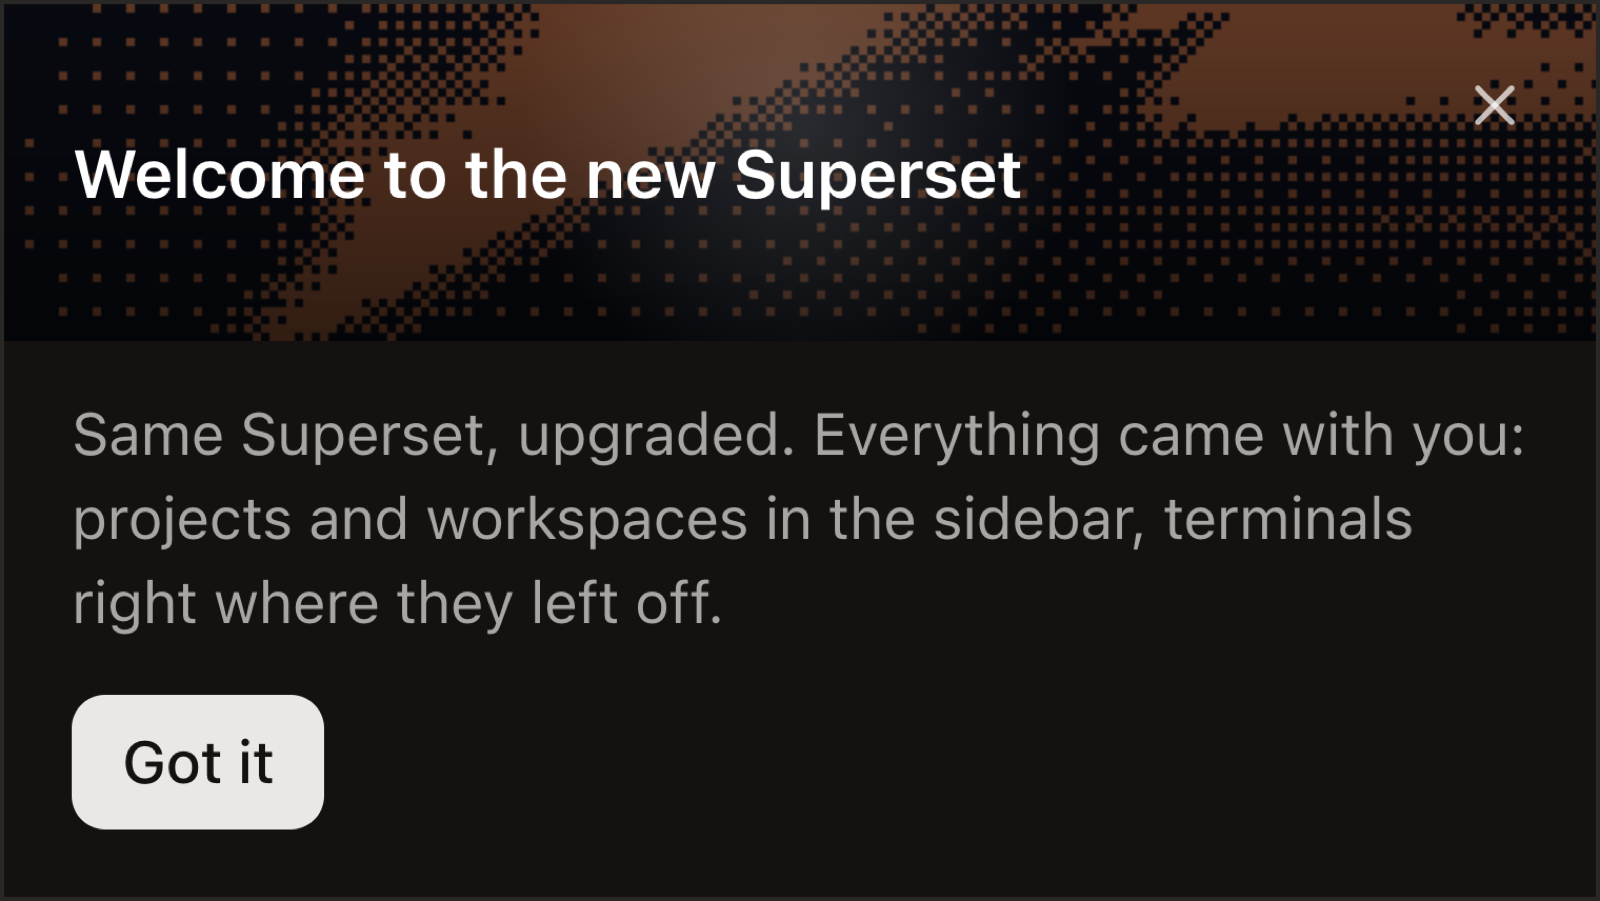
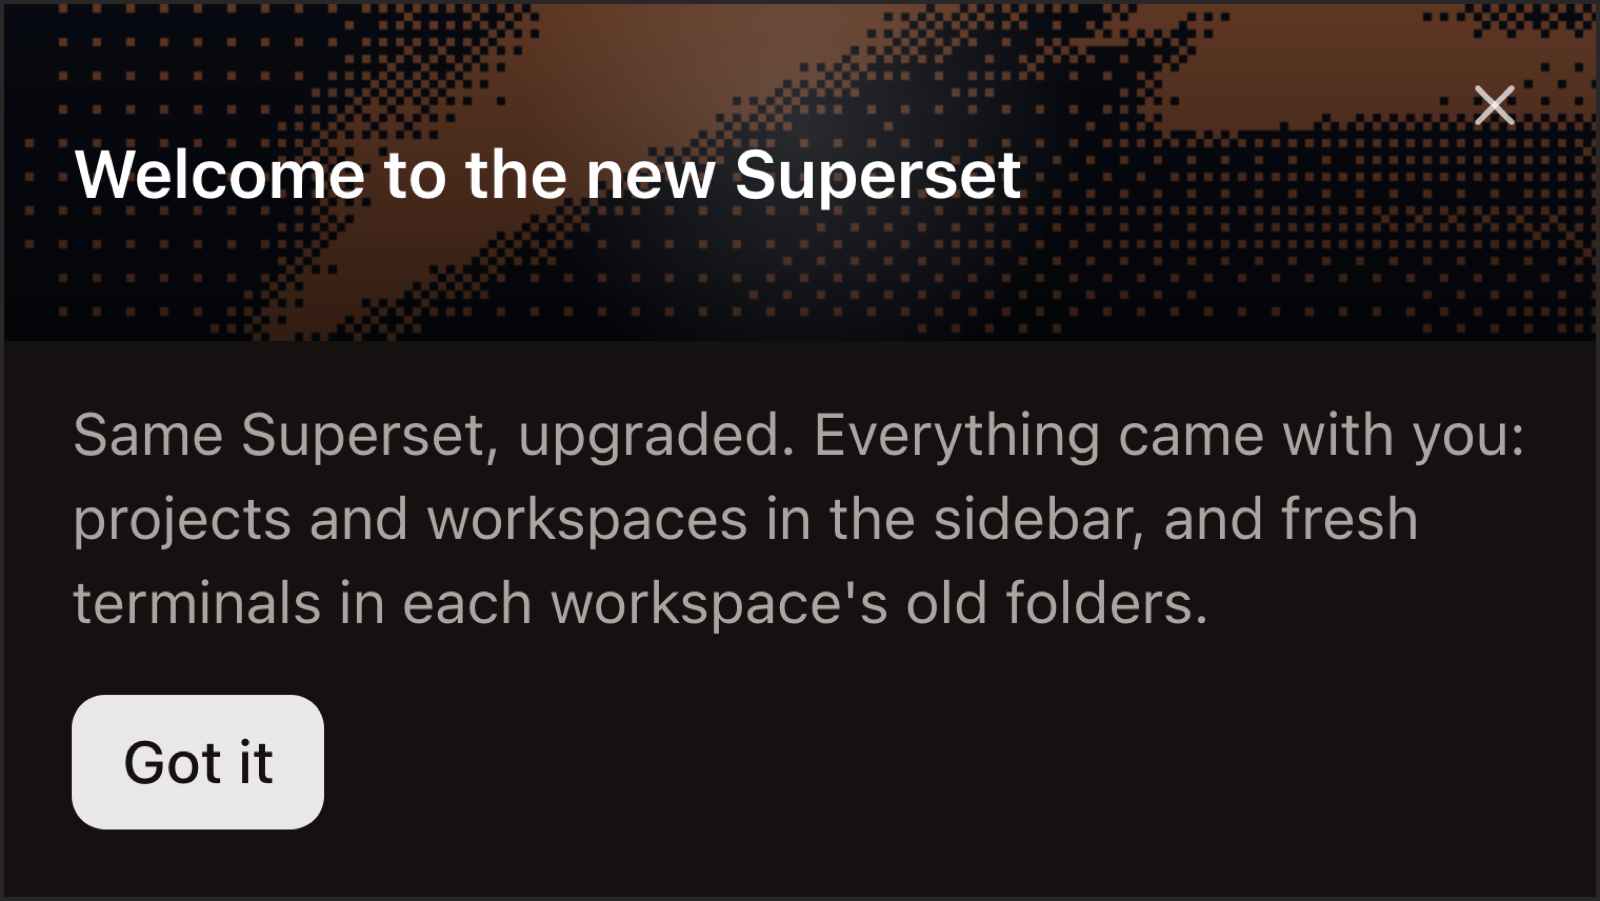
copy(desktop): warn about running terminal sessions honestly
Sessions can't transfer (v1 and v2 terminals live under different session
managers; handoff ruled out by design) — the pre-flip card now says so
and tells users to wrap up in-flight work; the welcome card says fresh
terminals in the old folders instead of implying session continuity.

diff --git a/apps/desktop/src/renderer/routes/_authenticated/components/V1FlipNotice/V1FlipNotice.tsx b/apps/desktop/src/renderer/routes/_authenticated/components/V1FlipNotice/V1FlipNotice.tsx
@@ -52,7 +52,7 @@ export function V1FlipNotice() {
 	return (
 		<FlipNoticeCard
 			title="A better Superset is ready"
-			body="Superset has been upgraded: faster, cleaner, and built around your projects. Next launch opens the new interface, and everything you have comes along."
+			body="Superset has been upgraded: faster, cleaner, and built around your projects. Everything comes along on your next launch, except running terminal sessions, so wrap up anything in flight."
 			ctaLabel="Got it"
 			onDismiss={dismiss}
 		/>

diff --git a/apps/desktop/src/renderer/routes/_authenticated/components/V1FlipNotice/V2FlipWelcome.tsx b/apps/desktop/src/renderer/routes/_authenticated/components/V1FlipNotice/V2FlipWelcome.tsx
@@ -41,7 +41,7 @@ export function V2FlipWelcome() {
 	return (
 		<FlipNoticeCard
 			title="Welcome to the new Superset"
-			body="Same Superset, upgraded. Everything came with you: projects and workspaces in the sidebar, terminals right where they left off."
+			body="Same Superset, upgraded. Everything came with you: projects and workspaces in the sidebar, and fresh terminals in each workspace's old folders."
 			ctaLabel="Got it"
 			onDismiss={dismiss}
 		/>
